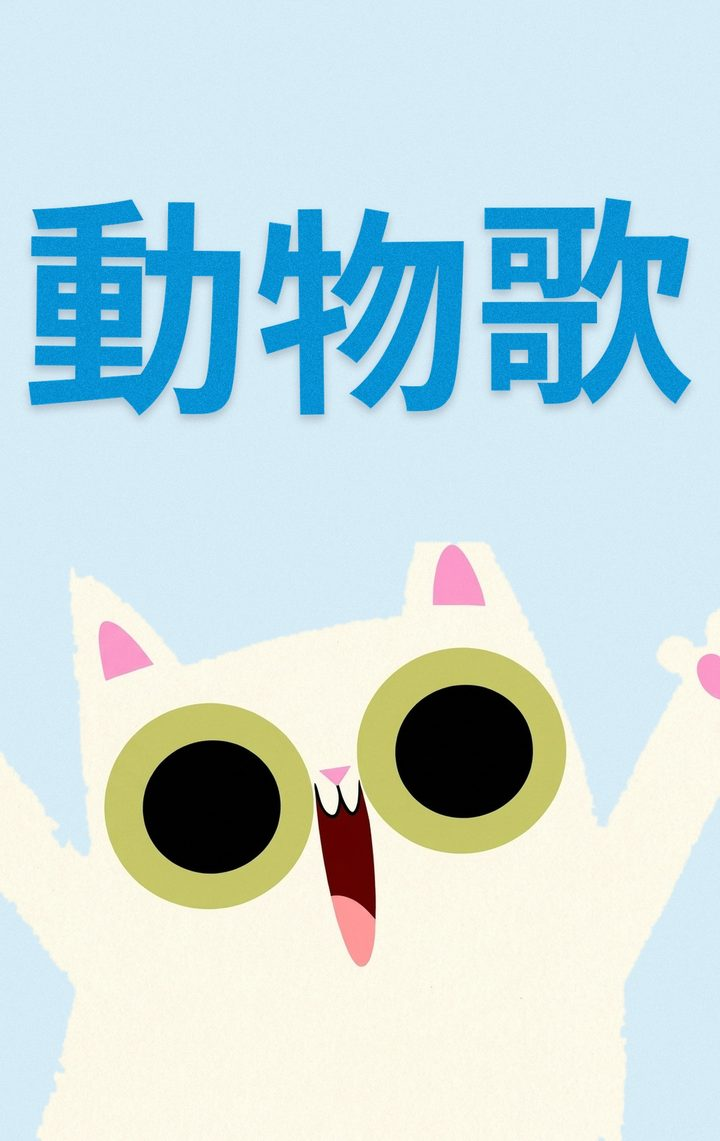
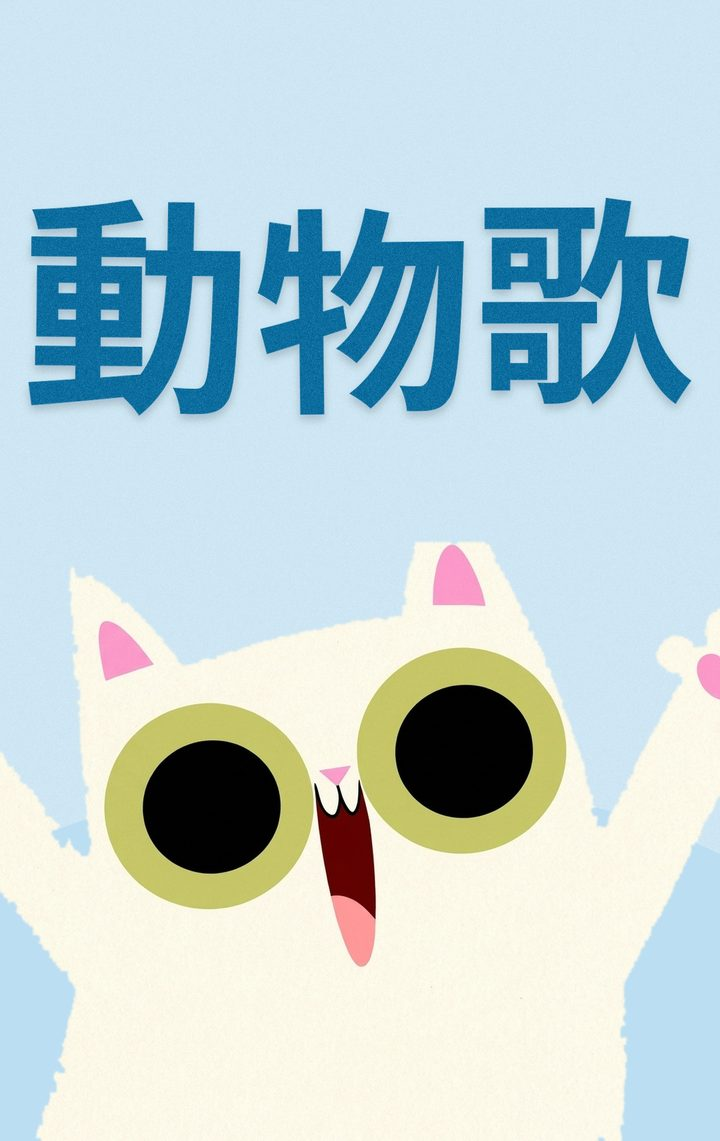
Give each custom speech cover its own palette and motif

diff --git a/docs/pages/speech-therapy-cantonese-animals.html b/docs/pages/speech-therapy-cantonese-animals.html
@@ -18,8 +18,7 @@
 and the <a href="http://www.dhcas.gov.hk/file/GFS/tc/GFS_Language_0-6_TC_2203.pdf">兒童體能智力測驗服務</a>
 language booklet — plus songs written for therapy by
 <a href="https://www.youtube.com/@MusicTherapyInClass">樂在課中</a></p>
-<p><strong>Cover:</strong> <code>cover.jpg</code> — the white Peekaboo cat from Super Simple's official art, on pale blue so a
-white character still reads, with a Chinese title added. Not a Yoto card.</p>
+<p><strong>Cover:</strong> <code>cover.jpg</code> — the white Peekaboo cat from Super Simple's official art, on pale blue with a hill behind him and a Chinese title, so a white character still reads. Not a Yoto card.</p>
 <p><strong>Tracks:</strong> 10 · <strong>Runtime:</strong> 23:02 · <strong>Status:</strong> verified</p>
 <h2>點用（how to use it）</h2>
 <p>動物名同動物聲，係最快見效的語言目標：一個字、一個聲，孩子一講就有反應。

diff --git a/docs/readme.html b/docs/readme.html
@@ -271,8 +271,9 @@ the Make Your Own card, and it looks the same on the player.</p>
   Noodle &amp; Pals friend (actions), a Bumble Num (food), Carl's Rescue Crew
   (routines), a Rhymington Square monster (social), Lulu the Owl (feelings), the
   Peekaboo cat (Cantonese animals) and a Roundabouts penguin (Cantonese
-  routines). Backgrounds replaced with cream, titles added; the art is Super
-  Simple's, not ours.</li>
+  routines). Each has its own background colour, a single quiet motif (circle,
+  hill or dots) and its own title colour, so no two read as the same template.
+  The art is Super Simple's, not ours.</li>
 <li><code>super-simple-favourites</code> has a custom cover: Super Simple's own Noodle
   artwork, cream background, hand-lettered title.</li>
 </ul>

diff --git a/docs/pages/speech-therapy-actions.html b/docs/pages/speech-therapy-actions.html
@@ -19,7 +19,7 @@
 <a href="https://eyaslanding.com/singing-in-speech-therapy">Eyas Landing</a> and
 <a href="https://www.goldcoast.health.qld.gov.au/our-services/childrens-services/community-child-health/talk-with-me/everyday-routines/songs">Gold Coast Health</a></p>
 <p><strong>Cover:</strong> <code>cover.jpg</code> — the yellow Noodle &amp; Pals friend from Super Simple's official banner art,
-background replaced with cream and a title added. Not a Yoto card.</p>
+pale yellow background, a hill and an amber title. Not a Yoto card.</p>
 <p><strong>Tracks:</strong> 10 · <strong>Runtime:</strong> 21:49 · <strong>Status:</strong> verified</p>
 <h2>How to use it</h2>
 <p>Ten Noodle &amp; Pals action songs in a row. The point is the verb, not the tune:

diff --git a/docs/pages/speech-therapy-animals.html b/docs/pages/speech-therapy-animals.html
@@ -19,7 +19,7 @@
 <a href="https://eyaslanding.com/singing-in-speech-therapy">Eyas Landing</a> and
 <a href="https://www.goldcoast.health.qld.gov.au/our-services/childrens-services/community-child-health/talk-with-me/everyday-routines/songs">Gold Coast Health</a></p>
 <p><strong>Cover:</strong> <code>cover.jpg</code> — Super Simple's Roundabouts pig, taken from their official character banner,
-background replaced with cream and a title added. This is not a Yoto card and the
+soft pink background, a pale circle behind him and a rose title. This is not a Yoto card and the
 character is Super Simple's art, not ours.</p>
 <p><strong>Tracks:</strong> 10 · <strong>Runtime:</strong> 28:02 · <strong>Status:</strong> verified</p>
 <h2>How to use it</h2>

diff --git a/docs/pages/speech-therapy-food.html b/docs/pages/speech-therapy-food.html
@@ -19,7 +19,7 @@
 <a href="https://eyaslanding.com/singing-in-speech-therapy">Eyas Landing</a> and
 <a href="https://www.goldcoast.health.qld.gov.au/our-services/childrens-services/community-child-health/talk-with-me/everyday-routines/songs">Gold Coast Health</a></p>
 <p><strong>Cover:</strong> <code>cover.jpg</code> — one of The Bumble Nums (the teal chef) from Super Simple's official art,
-background replaced with cream and a title added. Not a Yoto card.</p>
+mint background with confetti dots and a teal title. Not a Yoto card.</p>
 <p><strong>Tracks:</strong> 10 · <strong>Runtime:</strong> 23:56 · <strong>Status:</strong> verified</p>
 <h2>How to use it</h2>
 <p>Mealtime language: naming food, saying what you like, and the two-word exchange

diff --git a/docs/pages/speech-therapy-social.html b/docs/pages/speech-therapy-social.html
@@ -19,7 +19,7 @@
 <a href="https://eyaslanding.com/singing-in-speech-therapy">Eyas Landing</a> and
 <a href="https://www.goldcoast.health.qld.gov.au/our-services/childrens-services/community-child-health/talk-with-me/everyday-routines/songs">Gold Coast Health</a></p>
 <p><strong>Cover:</strong> <code>cover.jpg</code> — the pink Rhymington Square monster from Super Simple's official art,
-background replaced with cream and a title added. Not a Yoto card.</p>
+pink-lavender background, dots and a magenta title. Not a Yoto card.</p>
 <p><strong>Tracks:</strong> 10 · <strong>Runtime:</strong> 21:48 · <strong>Status:</strong> verified</p>
 <h2>How to use it</h2>
 <p>Social language before social skills: greet, name, ask, share, thank, say goodbye.

diff --git a/docs/pages/speech-therapy-routines.html b/docs/pages/speech-therapy-routines.html
@@ -19,7 +19,7 @@
 <a href="https://eyaslanding.com/singing-in-speech-therapy">Eyas Landing</a> and
 <a href="https://www.goldcoast.health.qld.gov.au/our-services/childrens-services/community-child-health/talk-with-me/everyday-routines/songs">Gold Coast Health</a></p>
 <p><strong>Cover:</strong> <code>cover.jpg</code> — Carl from Carl's Rescue Crew, from Super Simple's official banner art,
-background replaced with cream and a title added. Not a Yoto card.</p>
+pale blue background, a hill and a navy title. Not a Yoto card.</p>
 <p><strong>Tracks:</strong> 10 · <strong>Runtime:</strong> 20:56 · <strong>Status:</strong> verified</p>
 <h2>How to use it</h2>
 <p>The same six routines every day, in song. Routines are where language sticks,

diff --git a/docs/pages/speech-therapy-feelings.html b/docs/pages/speech-therapy-feelings.html
@@ -19,7 +19,7 @@
 <a href="https://eyaslanding.com/singing-in-speech-therapy">Eyas Landing</a> and
 <a href="https://www.goldcoast.health.qld.gov.au/our-services/childrens-services/community-child-health/talk-with-me/everyday-routines/songs">Gold Coast Health</a></p>
 <p><strong>Cover:</strong> <code>cover.jpg</code> — Lulu the Owl from Super Simple's Star &amp; Owl art, background replaced
-with cream and a title added. Not a Yoto card.</p>
+with a sand background, a soft circle and a brown title. Not a Yoto card.</p>
 <p><strong>Tracks:</strong> 10 · <strong>Runtime:</strong> 24:00 · <strong>Status:</strong> verified</p>
 <h2>How to use it</h2>
 <p>Naming a feeling is the first step to managing it, and a two-year-old needs the

diff --git a/docs/pages/speech-therapy-cantonese-routines.html b/docs/pages/speech-therapy-cantonese-routines.html
@@ -19,7 +19,7 @@ and the <a href="http://www.dhcas.gov.hk/file/GFS/tc/GFS_Language_0-6_TC_2203.pd
 language booklet — plus songs written for therapy by
 <a href="https://www.youtube.com/@MusicTherapyInClass">樂在課中</a></p>
 <p><strong>Cover:</strong> <code>cover.jpg</code> — the Roundabouts penguin in his red beanie, from Super Simple's official
-banner art, background replaced with cream and a Chinese title added. Not a Yoto
+banner art, warm grey background, dots and a dark red Chinese title. Not a Yoto
 card.</p>
 <p><strong>Tracks:</strong> 10 · <strong>Runtime:</strong> 21:15 · <strong>Status:</strong> verified</p>
 <h2>點用（how to use it）</h2>

diff --git a/.opencode/skills/yoto-cover/scripts/make_cover.py b/.opencode/skills/yoto-cover/scripts/make_cover.py
@@ -95,6 +95,27 @@ def fit_size(text, font_path, max_w, max_h, start=420):
     return 24
 
 
+def draw_motif(canvas, kind, accent, W, H, char_top, seed):
+    """A single quiet shape behind the character, so two cards in the same
+    series do not read as the same template."""
+    if kind in (None, "none"):
+        return
+    draw = ImageDraw.Draw(canvas)
+    if kind == "circle":
+        r = W * 0.63
+        cy = char_top + r * 0.72
+        draw.ellipse([W / 2 - r, cy - r, W / 2 + r, cy + r], fill=accent)
+    elif kind == "hill":
+        draw.ellipse([-W * 0.35, H * 0.68, W * 1.35, H * 1.40], fill=accent)
+    elif kind == "dots":
+        rnd = random.Random(seed)
+        for _ in range(26):
+            x = rnd.uniform(0, W)
+            y = rnd.uniform(H * 0.32, H * 0.95)
+            r = rnd.uniform(6, 16)
+            draw.ellipse([x - r, y - r, x + r, y + r], fill=accent)
+
+
 def render_hand_line(text, font_path, size, colour, seed, jitter=1.0):
     """One line of hand-lettered type: each glyph slightly rotated, scaled and
     dropped off the baseline, so it reads painted rather than typeset."""
@@ -148,11 +169,11 @@ def finish_hand(layer, seed, grain_amount=10, blur=7, offset=8, shadow_alpha=58)
 
 
 def draw_title(canvas, lines, font_path, blue, region_top, region_bottom, width,
-               jitter=1.0, seed_base=0):
+               jitter=1.0, seed_base=0, scale=1.0):
     region_h = region_bottom - region_top
     n = len(lines)
     max_w = width * 0.95
-    sizes = [fit_size(t, font_path, max_w, region_h * 0.62) for t in lines]
+    sizes = [max(24, int(fit_size(t, font_path, max_w, region_h * 0.62) * scale)) for t in lines]
 
     gap = int(region_h * 0.05)
     while True:
@@ -201,6 +222,9 @@ def main():
     p.add_argument("--no-grain", action="store_true")
     p.add_argument("--jitter", type=float, default=1.0, help="hand-lettered wobble, 0 disables")
     p.add_argument("--seed", type=int, default=7, help="change to re-roll the lettering")
+    p.add_argument("--motif", default="none", help="none, circle, hill or dots")
+    p.add_argument("--accent", default="#EFE9D6", help="colour of the background motif")
+    p.add_argument("--title-scale", type=float, default=1.0, help="shrink the title for a lighter look")
     p.add_argument("--fade-bottom", type=int, default=0, help="soften a hard cut at the bottom of the art, in px")
     p.add_argument("--anchor-bottom", action="store_true", help="sit the art on the card edge, so a cropped source has no visible cut")
     args = p.parse_args()
@@ -225,9 +249,10 @@ def main():
 
     font_path = ensure_font(args.font)
     top = H - cut.height + 15 if args.anchor_bottom else args.char_top
+    draw_motif(canvas, args.motif, hex_rgb(args.accent), W, H, top, args.seed)
     draw_title(canvas, args.title, font_path, hex_rgb(args.blue),
                int(H * 0.085), top - int(H * 0.02), W,
-               jitter=args.jitter, seed_base=args.seed)
+               jitter=args.jitter, seed_base=args.seed, scale=args.title_scale)
     canvas.paste(cut, ((W - args.char_width) // 2, top), cut)
 
     os.makedirs(os.path.dirname(os.path.abspath(args.out)), exist_ok=True)

diff --git a/.opencode/skills/yoto-cover/SKILL.md b/.opencode/skills/yoto-cover/SKILL.md
@@ -22,8 +22,8 @@ YouTube list, or a language/theme Yoto doesn't sell.
 | Property | Value |
 |---|---|
 | Canvas | 1200 × 1902 (2:3 portrait) |
-| Background | flat cream `#FFFFE8`, very fine grain, no scenery |
-| Title | chunky rounded blue `#0392D4`, hand-lettered (each glyph slightly rotated, scaled and dropped), fine grain and a soft shadow, top ~9–34% |
+| Background | one flat colour, very fine grain. Cream `#FFFFE8` is the default, but a series should vary it per card |
+| Title | chunky rounded, hand-lettered (each glyph slightly rotated, scaled and dropped), fine grain and a soft shadow, top ~9–34%. Blue `#0392D4` on cream is the default; vary the colour with the background |
 | Character | official brand art, chest-up, top of head ~37% down, body runs off the bottom edge |
 | Props | none. No jungle, vehicles, animals or sky |
 | Shadow | none, or a barely visible one |
@@ -84,6 +84,12 @@ Useful flags: `--char-top 700` (head position), `--char-width 1120`,
 Title control: `--jitter 1.0` sets how hand-drawn the lettering is (`0` gives
 clean vector type), `--seed 7` re-rolls it. The lettering is deterministic for a
 given seed, so a recorded command reproduces the file byte-for-byte.
+
+Variation: a set of cards with identical cream and blue reads as one template.
+Give each card its own `--bg`, `--blue` (title) and one `--motif` (`circle`,
+`hill` or `dots`) with `--accent`, ideally sampled from the character. Real Yoto
+cards each have their own scene; two cards in the same series should not look
+interchangeable. `--title-scale 0.9` lightens a long word.
 
 Art control: `--anchor-bottom` sits the character on the card's bottom edge.
 Use it whenever the source art is cropped at the bottom — otherwise the cut

diff --git a/README.md b/README.md
@@ -70,8 +70,9 @@ the Make Your Own card, and it looks the same on the player.
   Noodle & Pals friend (actions), a Bumble Num (food), Carl's Rescue Crew
   (routines), a Rhymington Square monster (social), Lulu the Owl (feelings), the
   Peekaboo cat (Cantonese animals) and a Roundabouts penguin (Cantonese
-  routines). Backgrounds replaced with cream, titles added; the art is Super
-  Simple's, not ours.
+  routines). Each has its own background colour, a single quiet motif (circle,
+  hill or dots) and its own title colour, so no two read as the same template.
+  The art is Super Simple's, not ours.
 - `super-simple-favourites` has a custom cover: Super Simple's own Noodle
   artwork, cream background, hand-lettered title.
 
